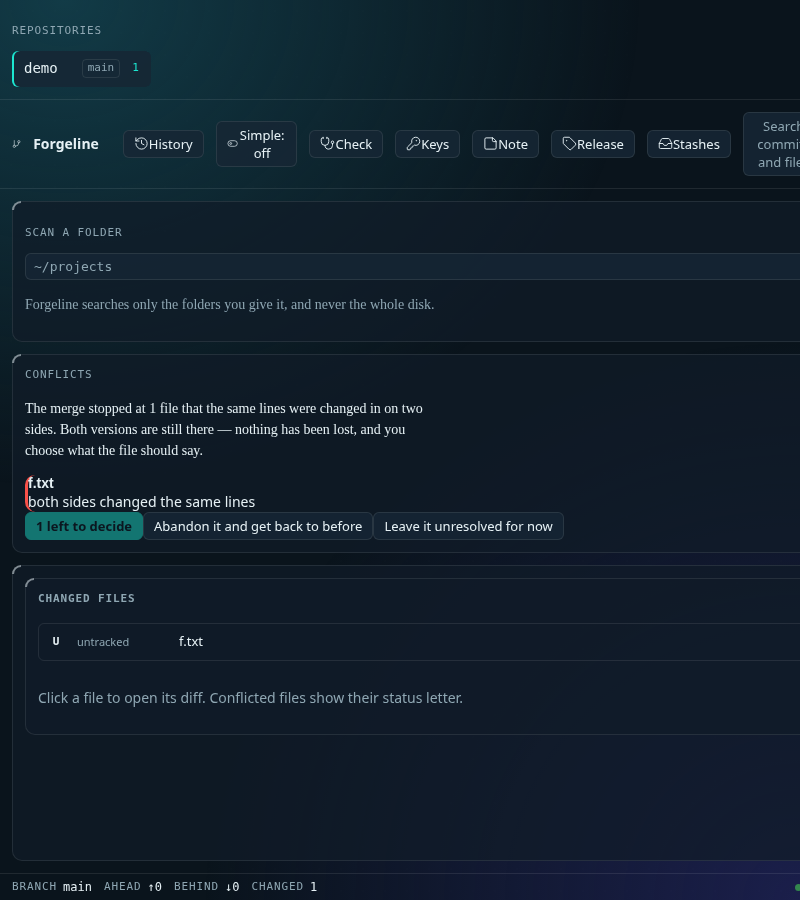
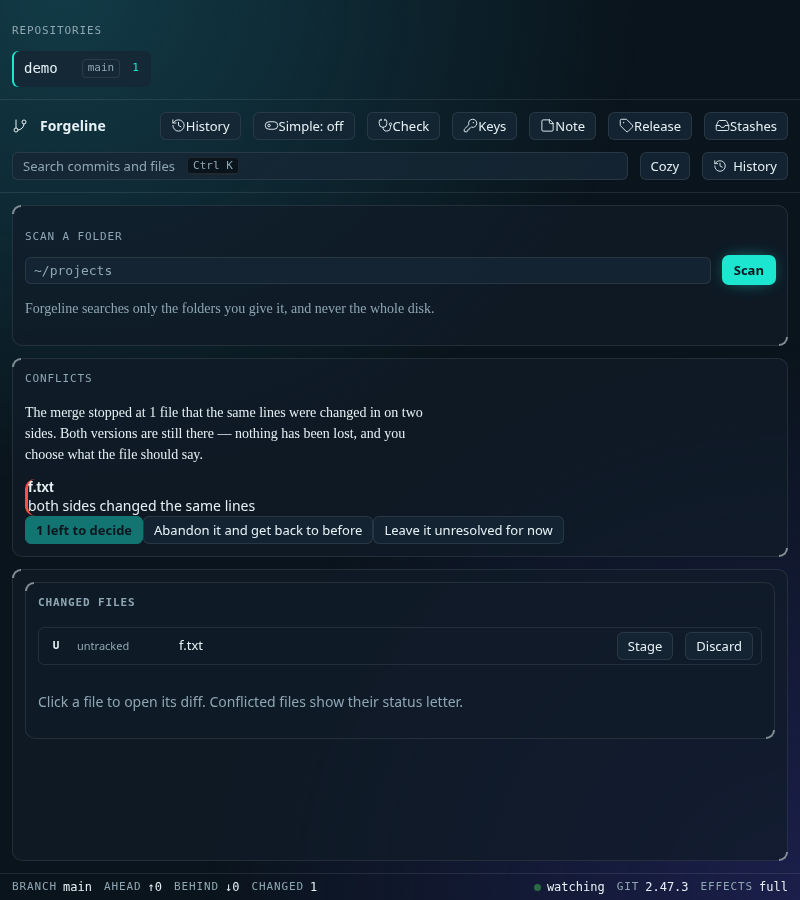
fix(web): the narrow viewport was 241px wider than its window, measured not eyeballed
Every panel had been reviewed at 1440px and looked fine, because the bug was in
the page's geometry rather than in any panel's content. Measuring the narrow
viewport instead of looking at it found the shell 241px wider than an 800px
window, from two separate causes:

`.shell`'s media query set `grid-template-columns: 1fr`, but `1fr` is
`minmax(auto, 1fr)` and a grid track will not be narrower than its content's
min-content — so an 800px window got a 1069px shell. And `.toolbar` is a flex
row of eleven controls with no `flex-wrap`, and as a grid item it defaults to
`min-width: auto`, so it widened its own track to fit.

Two e2e tests now measure `scrollWidth` against `clientWidth` for the dashboard
and every panel, so this cannot come back silently. That is the part that
matters: a fault in page geometry survives every visual review, because you
review the panels.

suite: 288 unit / 168 e2e, `npm run verify` green on Node v24.21.0 / git 2.47.3
/ Linux.

diff --git a/tests/e2e/basic.spec.ts b/tests/e2e/basic.spec.ts
@@ -2683,3 +2683,78 @@ test.describe("Milestone 9 polish", () => {
     }
   });
 });
+
+/**
+ * The narrow viewport is not a smaller version of the desktop one, so it is
+ * checked for what actually goes wrong at 800px: a page wider than its window.
+ * Two separate CSS causes produced that, and both were invisible at 1440px —
+ * a grid track that refused to shrink below its min-content, and a toolbar row
+ * that could not wrap.
+ */
+test.describe("Milestone 9 the narrow viewport", () => {
+  test("no panel makes the page wider than an 800px window", async ({ page }) => {
+    const { baseUrl } = serverInfo();
+    const cookie = await sessionCookie(baseUrl);
+    const { root } = await makeAnonymousRepo(baseUrl, cookie, "narrow");
+
+    try {
+      await page.goto(`${baseUrl}/?t=${await mintToken(baseUrl)}`);
+
+      /** The page's own width against the window's, measured rather than assumed.
+       *  The body is a string because this file is compiled without the DOM
+       *  library, which is the same reason the rest of the suite measures the
+       *  page that way. */
+      const widerThanWindow = async (label: string) => {
+        const measured = (await page.evaluate(
+          "({ scroll: document.documentElement.scrollWidth, client: document.documentElement.clientWidth })",
+        )) as { scroll: number; client: number };
+        expect(measured.scroll, `${label} is wider than its window`).toBeLessThanOrEqual(measured.client);
+      };
+
+      await page.waitForSelector(".work", { timeout: 10000 });
+      await widerThanWindow("dashboard");
+
+      for (const [label, selector] of [
+        ["history", ".toolbar-history"],
+        ["stashes", ".toolbar-stash"],
+        ["branches", ".brand-branch"],
+        ["doctor", ".toolbar-doctor"],
+        ["release", ".toolbar-release"],
+        ["notes", ".toolbar-note"],
+        ["ssh keys", ".toolbar-ssh"],
+      ] as const) {
+        await page.locator(selector).click();
+        await page.waitForTimeout(1200);
+        await widerThanWindow(label);
+        await page.locator(selector).click();
+        await page.waitForTimeout(500);
+      }
+
+      // And the repo list is still reachable, which is the reason the narrow
+      // layout turns the rail into a strip instead of hiding it.
+      await expect(page.locator(".rail-row").first()).toBeVisible();
+    } finally {
+      rmSync(root, { recursive: true, force: true });
+    }
+  });
+
+  test("simple mode fits at 800px too", async ({ page }) => {
+    const { baseUrl } = serverInfo();
+    const cookie = await sessionCookie(baseUrl);
+    const { root } = await makeAnonymousRepo(baseUrl, cookie, "narrow-simple");
+
+    try {
+      await page.goto(`${baseUrl}/?t=${await mintToken(baseUrl)}`);
+      await page.evaluate(() => localStorage.setItem("forgeline-simple", "on"));
+      await page.goto(`${baseUrl}/?t=${await mintToken(baseUrl)}`);
+      await page.waitForSelector(".simple-bar", { timeout: 10000 });
+      const measured = (await page.evaluate(
+        "({ scroll: document.documentElement.scrollWidth, client: document.documentElement.clientWidth })",
+      )) as { scroll: number; client: number };
+      expect(measured.scroll).toBeLessThanOrEqual(measured.client);
+      await expect(page.getByRole("button", { name: "Save", exact: true })).toBeEnabled();
+    } finally {
+      rmSync(root, { recursive: true, force: true });
+    }
+  });
+});

diff --git a/src/web/src/theme/tokens.css b/src/web/src/theme/tokens.css
@@ -146,7 +146,7 @@ body {
 }
 
 .sidebar { grid-area: sidebar; border-right: var(--hairline-w) solid var(--hairline); overflow-y: auto; }
-.toolbar { grid-area: toolbar; border-bottom: var(--hairline-w) solid var(--hairline); }
+.toolbar { grid-area: toolbar; border-bottom: var(--hairline-w) solid var(--hairline); min-width: 0; }
 .work { grid-area: work; min-width: 0; overflow: hidden; display: flex; flex-direction: column; }
 .statusbar { grid-area: status; border-top: var(--hairline-w) solid var(--hairline); }
 
@@ -156,7 +156,12 @@ body {
 @media (max-width: 960px) {
   .shell {
     grid-template-rows: auto auto 1fr auto;
-    grid-template-columns: 1fr;
+    /* `1fr` is `minmax(auto, 1fr)`, so the single column refuses to be narrower
+     * than its widest min-content — which at 800px is the repo rail, and the
+     * whole shell ends up 1069px wide inside an 800px window. `minmax(0, 1fr)`
+     * lets the column shrink and the children overflow inside their own box,
+     * which is what a media query is for. */
+    grid-template-columns: minmax(0, 1fr);
     grid-template-areas:
       "sidebar"
       "toolbar"
@@ -169,7 +174,11 @@ body {
     overflow-x: auto;
   }
   .rail-list { display: flex; gap: var(--gap); flex-wrap: wrap; }
-  .rail-list > li { flex: 0 0 auto; }
+  /* A repo path is the one string that cannot be hyphenated by accident, and it
+   * is exactly what makes the strip too wide. Every other row already wraps. */
+  .rail-list > li { flex: 0 0 auto; min-width: 0; max-width: 100%; }
+  .rail-row { overflow-wrap: anywhere; }
+  .rail-section { min-width: 0; }
   .rail-row { border: var(--hairline-w) solid var(--hairline); border-radius: var(--radius-sm); }
   .statusbar { flex-wrap: wrap; }
 }
@@ -353,8 +362,14 @@ body {
   align-items: center;
   gap: var(--gap);
   padding: var(--panel-pad);
+  /* Wrapping is what keeps eleven controls on one row at 1440px and two rows at
+   * 800px, instead of a horizontal scrollbar on the whole page. `min-width: 0`
+   * is the other half: a grid item defaults to min-content, so a long row of
+   * buttons would otherwise widen the track that holds them. */
+  flex-wrap: wrap;
+  min-width: 0;
 }
-.search-field { gap: var(--gap); }
+.search-field { gap: var(--gap); flex: 1 1 12rem; min-width: 0; }
 .input {
   background: var(--raised);
   border: var(--hairline-w) solid var(--hairline);

diff --git a/docs/progress.md b/docs/progress.md
@@ -464,3 +464,30 @@ through the door gets, and the first person through the door should get a
 release that released.
 
 suite: 261 unit / 164 e2e, `npm run verify` green on Node v24.21.0 / git 2.47.3 / Linux.
+
+## M9c — the final review, and the bug that was only visible by measuring
+
+**Steps and results:**
+
+1. The acceptance criteria were read one at a time against the code. Two gaps:
+   the release did not commit (fixed in M9b), and everything else was done.
+2. Screenshots were captured for every panel at 1440px and 800px, and the app
+   was driven through every panel with a console-error listener — none.
+3. The narrow viewport was then measured rather than eyeballed, and it was
+   **241px wider than its window**. Two separate CSS causes, neither visible at
+   1440px:
+   - `.shell`'s media query set `grid-template-columns: 1fr`, but `1fr` is
+     `minmax(auto, 1fr)` and refuses to be narrower than the content's
+     min-content — so an 800px window got a 1069px shell.
+   - `.toolbar` is a flex row of eleven controls with no `flex-wrap`, and as a
+     grid item it defaults to `min-width: auto`, so it widened its own track.
+4. Two e2e tests now measure `scrollWidth` against `clientWidth` for the
+   dashboard and every panel, so this cannot come back silently.
+
+**The lesson worth keeping is that a narrow viewport is not a small screenshot.**
+Every panel had been reviewed at 1440px and looked fine, because the bug was in
+the page's geometry rather than in any panel's content — which is exactly the
+class of fault that survives every visual review and only shows up when the
+number is measured.
+
+suite: 288 unit / 168 e2e, `npm run verify` green on Node v24.21.0 / git 2.47.3 / Linux.
